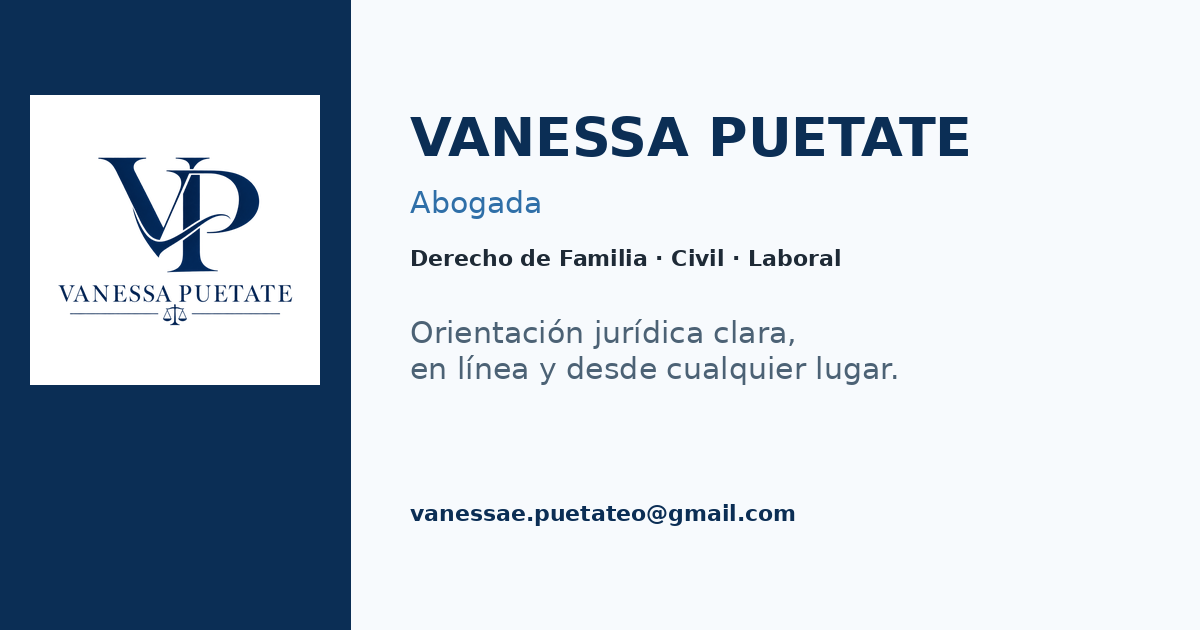
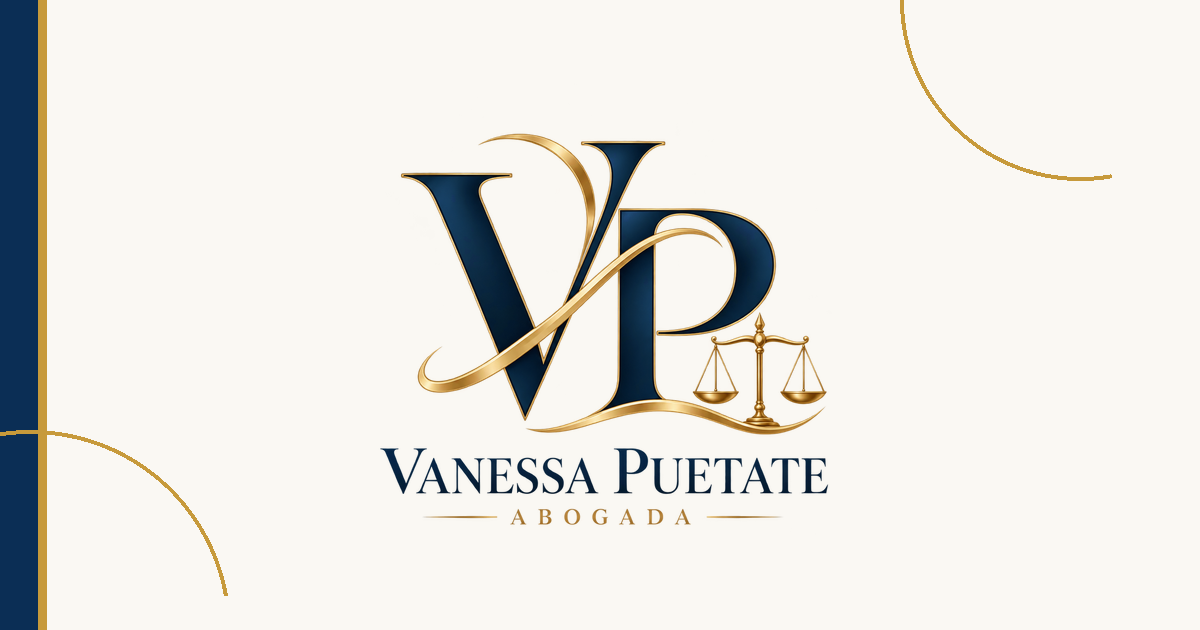
Add files via upload

Changed region(s): [[0.0, 0.0, 0.8633, 1.0], [0.74, 0.0, 0.7708, 0.1206], [0.8633, 0.2714, 0.925, 0.3016]]

diff --git a/index.html b/index.html
@@ -11,6 +11,9 @@
   --navy:#0B2E55;
   --navy2:#173F6E;
   --blue:#2F6FA8;
+  --gold:#C79A3B;
+  --gold-deep:#9B6B1D;
+  --gold-soft:#F7EEDC;
   --ice:#F2F7FB;
   --line:#D9E5EF;
   --ink:#1E2A36;
@@ -35,7 +38,7 @@ button,input,select,textarea{font:inherit}
 .container{width:min(1120px,92%);margin:auto}
 .eyebrow{
   margin:0 0 10px;
-  color:var(--blue);
+  color:var(--gold-deep);
   font-size:.75rem;
   font-weight:800;
   letter-spacing:.16em;
@@ -82,7 +85,7 @@ p{margin-top:0}
   justify-content:space-between;
   gap:16px;
 }
-.brand img{width:58px;height:58px;object-fit:contain}
+.brand img{width:62px;height:62px;object-fit:contain}
 .nav{
   display:flex;
   align-items:center;
@@ -150,7 +153,7 @@ p{margin-top:0}
   position:relative;
   z-index:2;
   background:#fff;
-  border:1px solid #E2ECF4;
+  border:1px solid rgba(199,154,59,.34);
   border-radius:30px;
   box-shadow:var(--shadow);
   padding:38px 34px;
@@ -160,7 +163,7 @@ p{margin-top:0}
   justify-content:center;
   min-height:390px;
 }
-.hero-card img{width:250px}
+.hero-card img{width:min(330px,88%)}
 .pills{display:flex;gap:8px;flex-wrap:wrap;justify-content:center;margin-top:18px}
 .pills span{
   background:var(--ice);
@@ -169,6 +172,14 @@ p{margin-top:0}
   border-radius:999px;
   font-size:.82rem;
   font-weight:700;
+}
+
+
+.hero-card:before{
+  content:"";
+  width:72px;height:3px;border-radius:999px;
+  background:linear-gradient(90deg,var(--gold-deep),var(--gold));
+  margin-bottom:20px;
 }
 
 /* General sections */
@@ -189,7 +200,7 @@ p{margin-top:0}
   padding:27px;
   box-shadow:0 10px 28px rgba(11,46,85,.055);
 }
-.service-card.featured{border-color:#AFC7DB;box-shadow:0 16px 38px rgba(11,46,85,.09)}
+.service-card.featured{border-color:rgba(199,154,59,.62);box-shadow:0 16px 38px rgba(11,46,85,.09)}
 .service-card ul{padding-left:18px;color:#526779;margin-bottom:0}
 .service-card li{margin:7px 0}
 .card-number{display:inline-block;margin-bottom:12px;color:#8DA9C0;font-size:.76rem;font-weight:900;letter-spacing:.12em}
@@ -298,7 +309,7 @@ textarea{resize:vertical}
 .footer{background:#081E35;color:#C8D8E5;padding:42px 0 90px}
 .footer-grid{display:grid;grid-template-columns:2fr 1fr 1fr;gap:34px}
 .footer-brand{display:flex;gap:15px;align-items:center}
-.footer-brand img{width:78px;filter:brightness(0) invert(1)}
+.footer-brand img{width:82px;background:#fff;border-radius:18px;padding:7px;box-shadow:0 0 0 1px rgba(199,154,59,.38)}
 .footer strong{display:block;color:#fff;margin-bottom:10px}
 .footer a{display:block;margin:6px 0;color:#C8D8E5}
 .legal{
@@ -332,13 +343,13 @@ textarea{resize:vertical}
 @media(max-width:640px){
   body{padding-bottom:76px}
   .container{width:min(94%,560px)}
-  .site-header .brand img{width:50px;height:50px}
+  .site-header .brand img{width:54px;height:54px}
   .nav-wrap{min-height:64px}
   .nav{top:64px}
   .hero{padding:46px 0 44px}
   .hero-grid{gap:26px}
   .hero-card{order:-1;min-height:auto;padding:18px 18px 22px;border-radius:24px}
-  .hero-card img{width:155px}
+  .hero-card img{width:min(245px,82%)}
   .pills{margin-top:10px}
   .pills span{font-size:.76rem;padding:7px 9px}
   h1{font-size:2.48rem}
@@ -455,7 +466,7 @@ textarea{resize:vertical}
       </div>
     </div>
     <div class="hero-card">
-      <img src="logo-vp.png" alt="Logo VP de Vanessa Puetate">
+      <img src="logo-vp-completo.png" alt="Vanessa Puetate Abogada">
       <div class="pills">
         <span>Familia</span>
         <span>Civil</span>

diff --git a/articulo.html b/articulo.html
@@ -7,14 +7,14 @@
 <meta name="description" content="Artículo de actualidad jurídica de Vanessa Puetate.">
 <link rel="icon" href="favicon-32.png">
 <style>
-:root{--navy:#0B2E55;--navy2:#173F6E;--blue:#2F6FA8;--ice:#F2F7FB;--line:#D9E5EF;--ink:#1E2A36;--muted:#617487;--white:#fff}
+:root{--navy:#0B2E55;--navy2:#173F6E;--blue:#2F6FA8;--gold:#C79A3B;--gold-deep:#9B6B1D;--ice:#F2F7FB;--line:#D9E5EF;--ink:#1E2A36;--muted:#617487;--white:#fff}
 *{box-sizing:border-box}html{scroll-behavior:smooth}body{margin:0;font-family:Inter,Segoe UI,Arial,sans-serif;color:var(--ink);line-height:1.6;background:#fff}
 a{text-decoration:none;color:inherit}.container{width:min(1050px,92%);margin:auto}
-header{border-bottom:1px solid var(--line);background:#fff;position:sticky;top:0;z-index:10}
+header{border-bottom:1px solid rgba(199,154,59,.26);background:#fff;position:sticky;top:0;z-index:10}
 .head{min-height:72px;display:flex;align-items:center;justify-content:space-between;gap:20px}
-.head img{width:58px;height:58px;object-fit:contain}.back{color:var(--navy);font-weight:800}
+.head img{width:62px;height:62px;object-fit:contain}.back{color:var(--navy);font-weight:800}
 .hero{padding:64px 0 48px;background:linear-gradient(180deg,#fff,#F6FAFD)}
-.eyebrow{color:var(--blue);font-size:.76rem;font-weight:900;letter-spacing:.15em;margin:0 0 10px}
+.eyebrow{color:var(--gold-deep);font-size:.76rem;font-weight:900;letter-spacing:.15em;margin:0 0 10px}
 h1,h2,h3{font-family:Georgia,"Times New Roman",serif;color:var(--navy);line-height:1.15}
 h1{font-size:clamp(2.3rem,6vw,4rem);margin:0 0 14px}.muted{color:var(--muted)}
 .grid{display:grid;grid-template-columns:repeat(3,1fr);gap:20px;padding:50px 0 80px}

diff --git a/actualidad.html b/actualidad.html
@@ -8,14 +8,14 @@
 <link rel="canonical" href="https://vanessapuetate.com/actualidad.html">
 <link rel="icon" href="favicon-32.png">
 <style>
-:root{--navy:#0B2E55;--navy2:#173F6E;--blue:#2F6FA8;--ice:#F2F7FB;--line:#D9E5EF;--ink:#1E2A36;--muted:#617487;--white:#fff}
+:root{--navy:#0B2E55;--navy2:#173F6E;--blue:#2F6FA8;--gold:#C79A3B;--gold-deep:#9B6B1D;--ice:#F2F7FB;--line:#D9E5EF;--ink:#1E2A36;--muted:#617487;--white:#fff}
 *{box-sizing:border-box}html{scroll-behavior:smooth}body{margin:0;font-family:Inter,Segoe UI,Arial,sans-serif;color:var(--ink);line-height:1.6;background:#fff}
 a{text-decoration:none;color:inherit}.container{width:min(1050px,92%);margin:auto}
-header{border-bottom:1px solid var(--line);background:#fff;position:sticky;top:0;z-index:10}
+header{border-bottom:1px solid rgba(199,154,59,.26);background:#fff;position:sticky;top:0;z-index:10}
 .head{min-height:72px;display:flex;align-items:center;justify-content:space-between;gap:20px}
-.head img{width:58px;height:58px;object-fit:contain}.back{color:var(--navy);font-weight:800}
+.head img{width:62px;height:62px;object-fit:contain}.back{color:var(--navy);font-weight:800}
 .hero{padding:64px 0 48px;background:linear-gradient(180deg,#fff,#F6FAFD)}
-.eyebrow{color:var(--blue);font-size:.76rem;font-weight:900;letter-spacing:.15em;margin:0 0 10px}
+.eyebrow{color:var(--gold-deep);font-size:.76rem;font-weight:900;letter-spacing:.15em;margin:0 0 10px}
 h1,h2,h3{font-family:Georgia,"Times New Roman",serif;color:var(--navy);line-height:1.15}
 h1{font-size:clamp(2.3rem,6vw,4rem);margin:0 0 14px}.muted{color:var(--muted)}
 .grid{display:grid;grid-template-columns:repeat(3,1fr);gap:20px;padding:50px 0 80px}
